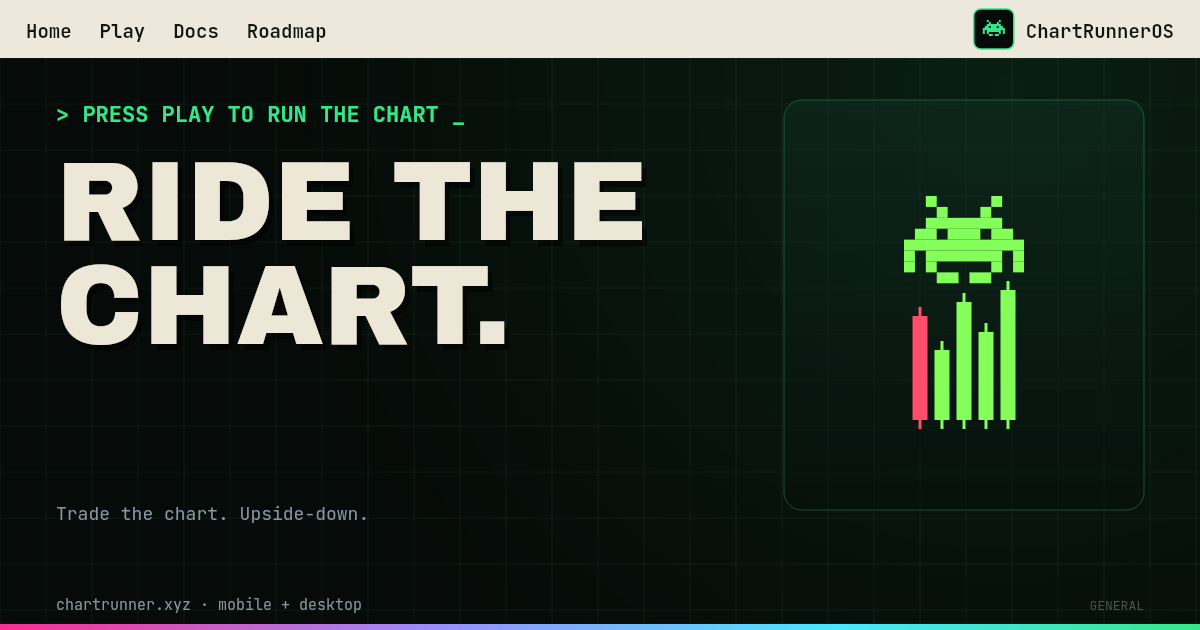
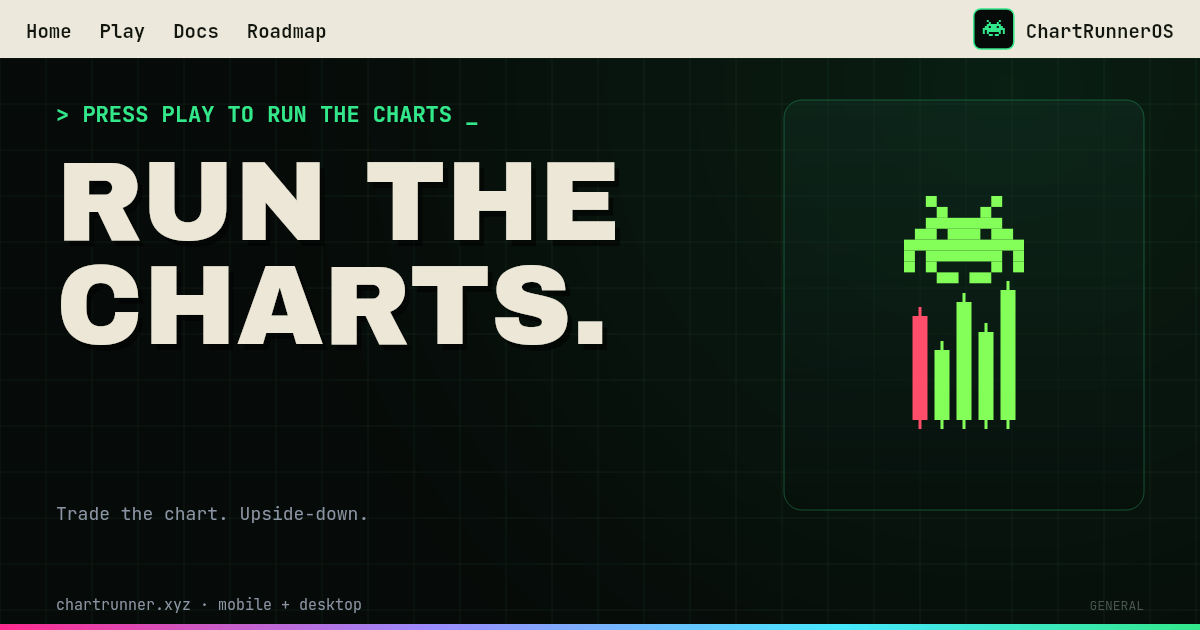
general card: RUN THE CHARTS

Changed region(s): [[0.1233, 0.2413, 0.555, 0.3921], [0.4008, 0.4222, 0.5242, 0.573], [0.37, 0.181, 0.4008, 0.2111]]

diff --git a/chartrunner-prototype/assets/cr-share-card.js b/chartrunner-prototype/assets/cr-share-card.js
@@ -14,7 +14,7 @@
 
   // full canon content per type; value/sub override the live bits
   const T = {
-    general:     { general:true, prompt:'> PRESS PLAY TO RUN THE CHART _', hero:['RIDE THE','CHART.'],
+    general:     { general:true, prompt:'> PRESS PLAY TO RUN THE CHARTS _', hero:['RUN THE','CHARTS.'],
                    sub:'Trade the chart. Upside-down.', foot:'chartrunner.xyz · mobile + desktop', ftype:'GENERAL' },
     pnl:         { chip:'RUN RESULT · PAPER', prompt:'> RUN CLOSED _', lead:['Ride closed','in the green.'],
                    sub:'BTC · 5m · long · held 2h 12m', blabel:'PROFIT / LOSS', value:'+247.5%', size:1, color:'green',
